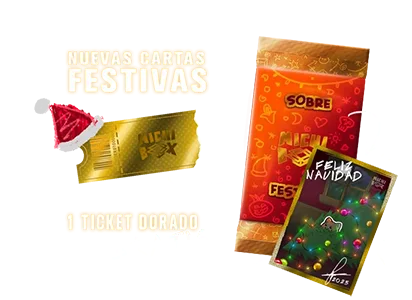
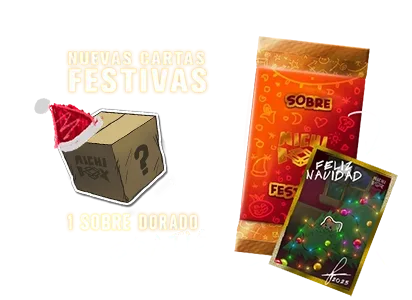
v_regalos

Changed region(s): [[0.1456, 0.36, 0.4951, 0.69], [0.2039, 0.72, 0.3204, 0.78]]

diff --git a/regalos.html b/regalos.html
@@ -24,69 +24,34 @@
 
 
       <div class="contenedorQUEESyNOTICIAS">
-
-            <div class="separacion"></div>
+    <div class="separacion"></div>
+            <div class="separacion" data-lazy="true" style="background-image: url(./assets/BANNER_TIENDA_REGALOS.webp); background-size: contain; background-repeat: no-repeat; background-position: center;"></div>
         
-         <DIV class="imagenbannernoticia" data-lazy="true" style="background-image: url(./assets/BANNER_TIENDA.webp);"></DIV>
 
 
 <div class="opcionesdecompra">
 
-  <div class="compra">
-  <div class="imagenproducto" style="background-image: url(./assets/TICKET_dorado.webp);">  </div>
-  <p class="productodescripcion"> <B>TICKET DORADO</B> <br><br> (CANJEA 1 CARTA <br> FESTIVA)</p>
-  <button class="botonCopiar" data-codigo="NAVIDAD2025MICHIVSARBOL">1 TICKET <br> GRATIS</button>
-</div>
 
   <div class="compra">
-  <div class="imagenproducto" style="background-image: url(./assets/TICKET_dorado.webp);">  </div>
-  <p class="productodescripcion"> <B>TICKET DORADO</B> <br><br> (CANJEA 1 CARTA <br> FESTIVA)</p>
-  <button class="botonCopiar" data-codigo="AÑONUEVO20252026">1 TICKET <br> GRATIS</button>
+  <div class="imagenproducto" style="background-image: url(./assets/TICKET_dorado_paquete.webp);">  </div>
+  <button class="botonCopiar" data-codigo="NAVIDD2025MICHIVSARBOL">1 CARTA FESTIVA <br> NAVIDAD 2025<br> GRATIS</button>
+</div>
+
+  <div class="compra">
+  <div class="imagenproducto" style="background-image: url(./assets/TICKET_dorado_paquete.webp);">  </div>
+  <button class="botonCopiar" data-codigo="AÑONUEV20252026">1 CARTA FESTIVA <br> AÑO NUEVO 2026<br> GRATIS</button>
 </div>
 
 <div class="compra">
-  <div class="imagenproducto" style="background-image: url(./assets/TICKET\ 01.webp);">  </div>
-  <p class="productodescripcion"> <B>TICKET</B> <br><br> (CANJEA 1 CARTA <br> DE MICHI-BOX)</p>
-  <button class="botonCopiar" data-codigo="020AMB0562HGHYUD5">1 TICKET <br> GRATIS</button>
+  <div class="imagenproducto" style="background-image: url(./assets/TICKET\ 01_paquete.webp);">  </div>
+  <button class="botonCopiar" data-codigo="020AMB562HGHYUD5">1 CARTA <br> MICHI BOX <br> GRATIS</button>
 </div>
 
 <div class="compra">
-  <div class="imagenproducto" style="background-image: url(./assets/TICKET\ 02_mt.webp);">  </div>
-  <p class="productodescripcion"> <B>TICKET</B> <br><br> (CANJEA 1 CARTA DE <br> MAULLIDO TROPICAL)</p>
-  <button class="botonCopiar" data-codigo="0550MBMTHU888555TH">1 TICKET <br> GRATIS</button>
+  <div class="imagenproducto" style="background-image: url(./assets/TICKET\ 02_mt_paquete.webp);">  </div>
+  <button class="botonCopiar" data-codigo="0550MBMTU888555TH">1 CARTA <br> MAULLIDO TROPICAL <br> GRATIS</button>
 </div>
 
-
-
-<div class="compra">
-  <div class="imagenproducto" style="background-image: url(./assets/caja_box_elite_03.webp);">  </div>
-  <p class="productodescripcion"> <B>CAJA PREMIUM</B> <br><br> (CAJA MICHI-BOX <br> ELITE-PREMIUM)</p>
-  <button class="botonCopiarSINSTOCK" >NO DISPONIBLE</button>
-</div>
-
-<div class="compra">
-  <div class="imagenproducto" style="background-image: url(./assets/SOBRE_COMPRA_01.webp);">  </div>
-  <p class="productodescripcion"> <B>SOBRE DE CARTAS</B> <br><br> (SOBRE DE CARTAS <br>MICHI-BOX )</p>
-  <button class="botonCopiarSINSTOCK" >NO DISPONIBLE</button>
-</div>
-
-<div class="compra">
-  <div class="imagenproducto" style="background-image: url(./assets/SOBRE_COMPRA_02.webp);">  </div>
-  <p class="productodescripcion"> <B>SOBRE DE CARTAS</B> <br><br> (SOBRE DE CARTAS <br>MAULLIDO TROPICAL )</p>
-  <button class="botonCopiarSINSTOCK" >NO DISPONIBLE</button>
-</div>
-
-<div class="compra">
-  <div class="imagenproducto" style="background-image: url(./assets/caja_box_elite.webp);">  </div>
-  <p class="productodescripcion"> <B>CAJA ELITE</B> <br><br> (CAJA <br> MICHI-BOX)</p>
-  <button class="botonCopiarSINSTOCK" >NO DISPONIBLE</button>
-</div>
-
-<div class="compra">
-  <div class="imagenproducto" style="background-image: url(./assets/caja_box_elite_02.webp);">  </div>
-  <p class="productodescripcion"> <B>CAJA ELITE</B> <br><br> (CAJA <br> MAULLIDO TROPICAL)</p>
-  <button class="botonCopiarSINSTOCK" >NO DISPONIBLE</button>
-</div>
 
 
 </div>

diff --git a/style/style.css b/style/style.css
@@ -1527,38 +1527,37 @@ height: 90vh;
 
 .opcionesdecompra{
   justify-content: center;
-  width: 100%;
-  height: auto;
-  display: flex;
-  flex-wrap: wrap;
-gap: 20px;
-}
-.compra{
   display: flex;
   flex-direction: column;
+  flex-wrap: wrap;
+gap: 60px;
+margin: 0px 10px;
+padding: 10px;
+}
+.compra{
+border: 3px dashed #ffffff49;
+  background-color: rgba(255, 255, 255, 0.172);
+  border-radius: 10px;
+  display: flex;
+  flex-direction: row;
+  width: 100%;
+  height: 80px;
   align-items: center;
-  width: 150px;
-  margin: 20px 0px;
+  justify-content: space-between;
+  padding: 0px 10px;
 }
 
-.compra:nth-child(1), .compra:nth-child(2), .compra:nth-child(3) {
-display: none;
-}
 
 .imagenproducto{
-  width: 150px;
-  height: 150px;
-
+  transform: translateX(-20px);
+  width: 130px;
+  height: 130px;
   background-size: contain;
   background-position: center;
   background-repeat: no-repeat;
 }
 
-.productodescripcion{
-  width: 100%;
-    text-align: center;
-  font-size: 60%;
-}
+
 
 .botondonarmenu{
 display: none;
@@ -1588,9 +1587,10 @@ border: 3px solid rgb(86, 214, 27);
 
 /* 🌟 Estilo del botón original */
 .botonCopiar {
-    font-size: 70%;
+
+    font-size: 60%;
     font-weight: bold;
-      width: 100%;
+      width: 150px;
   height: 50px;
   background: linear-gradient(0deg, rgb(7, 110, 0) 26%, rgb(14, 167, 0) 46%);
   color: white;
@@ -1601,25 +1601,25 @@ border: 3px solid rgb(86, 214, 27);
 
 .botonCopiarSINSTOCK {
   font-weight: bold;
-      width: 100%;
+      width: 150px;
   height: 50px;
   background: linear-gradient(0deg, rgb(148, 7, 7) 26%, rgb(209, 0, 0) 46%);
   color: white;
 border: 3px solid rgb(255, 107, 58);
   border-radius: 7px;
-    font-size: 70%;
+    font-size: 60%;
 }
 
 
 /* 🩶 Estilo del botón cuando ya fue canjeado */
 .botonCanjeado {
-      width: 100%;
+      width: 150px;
   height: 50px;
   background: linear-gradient(0deg, rgb(92, 92, 92) 26%, rgb(155, 155, 155) 46%);
   color: rgb(0, 0, 0);
 border: 3px solid rgb(119, 119, 119);
   border-radius: 7px;
-      font-size: 70%;
+      font-size: 60%;
 font-weight: bold;
 }
 
@@ -1633,7 +1633,7 @@ font-weight: bold;
   position: fixed;
   top: 0;
   left: 0;
-background-image: url(../assets/TICKET\ 00\ blanco.webp);
+background-image: url(../assets/TICKET\ 00\ blanco_caja.webp);
 background-size: contain;
 background-position: center;
 background-repeat: no-repeat;
@@ -1840,9 +1840,7 @@ pointer-events: all;
 display: flex;
 }
 
-.compra:nth-child(1), .compra:nth-child(2), .compra:nth-child(3) {
-display: block;
-}
+
 
 .contenedorbotoncerrar{
   z-index: 999;

diff --git a/index.html b/index.html
@@ -46,7 +46,7 @@
       <a onclick="mostrarGaleria()" class="iconomenu lazy-michi" style="background-image: url(./assets/galeriacartasicon.webp);"></a>
       <a onclick="mostrarQuees()" class="iconomenu lazy-michi" style="background-image: url(./assets/boton_QUE_ES.webp);"></a>
       <a onclick="mostrarNoticias()" class="iconomenu lazy-michi" style="background-image: url(./assets/boton_NOTICIAS_NUEVO.webp);"></a>
-      <a onclick="mostrarRegalos()" class="iconomenu lazy-michi" style="background-image: url(./assets/boton_tienda.webp);"></a>
+      <a onclick="mostrarRegalos()" class="iconomenu lazy-michi" style="background-image: url(./assets/boton_regalos.webp);"></a>
       <a onclick="mostrarDonar()" class="lazy-michi botondonarmenu" style="width: 300px; height: 50px; background-image: url(./assets/DONAR_ICON.webp); background-size: contain; background-position: center; background-repeat: no-repeat;"></a>
     </div>
 </div>
